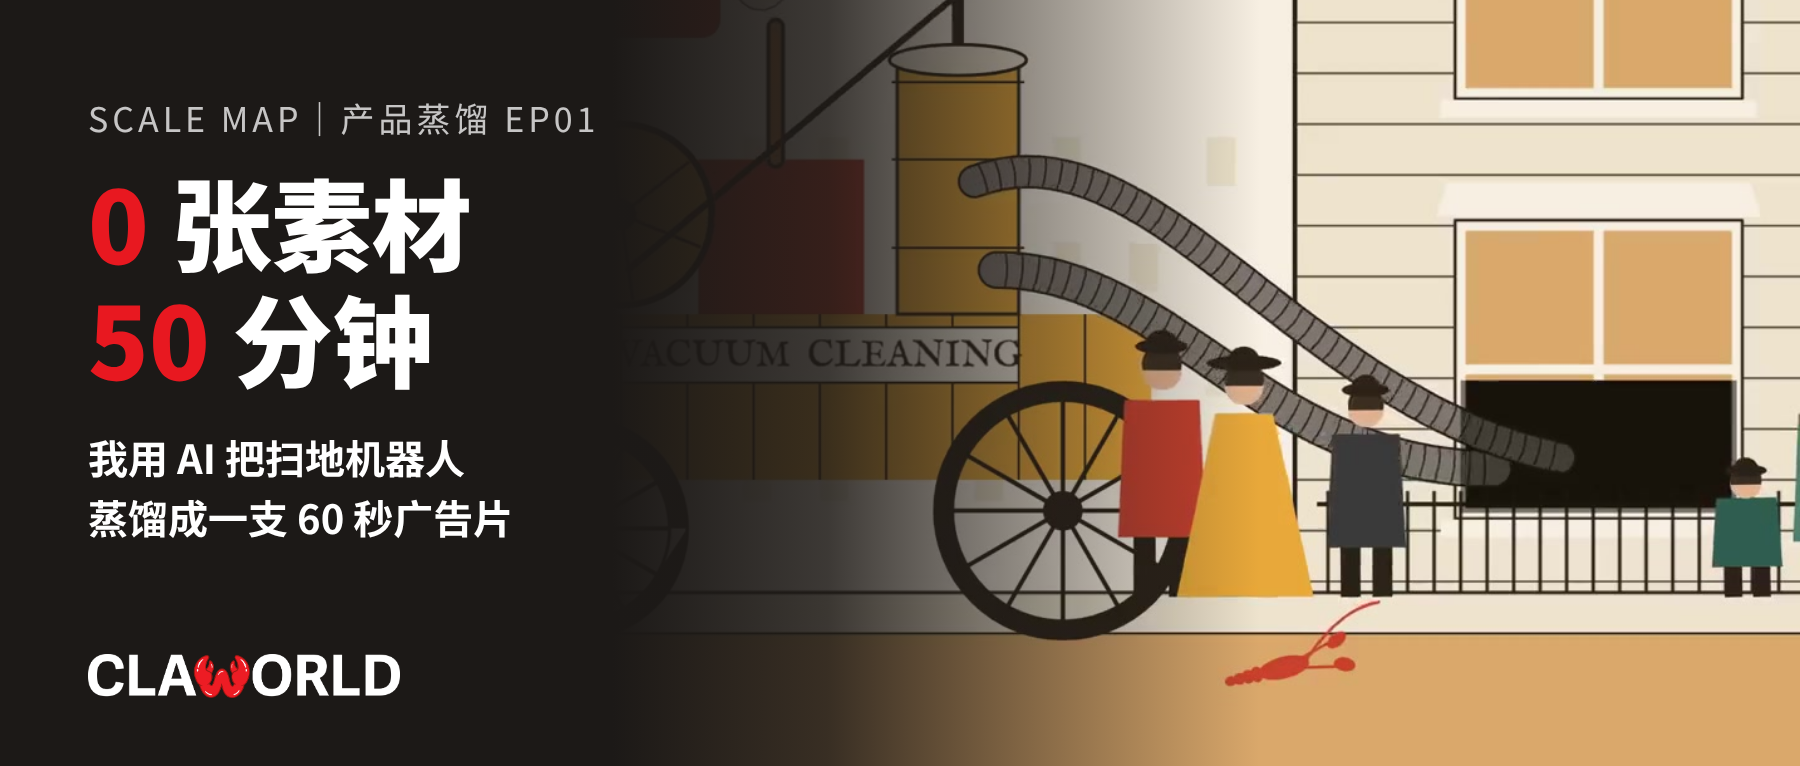
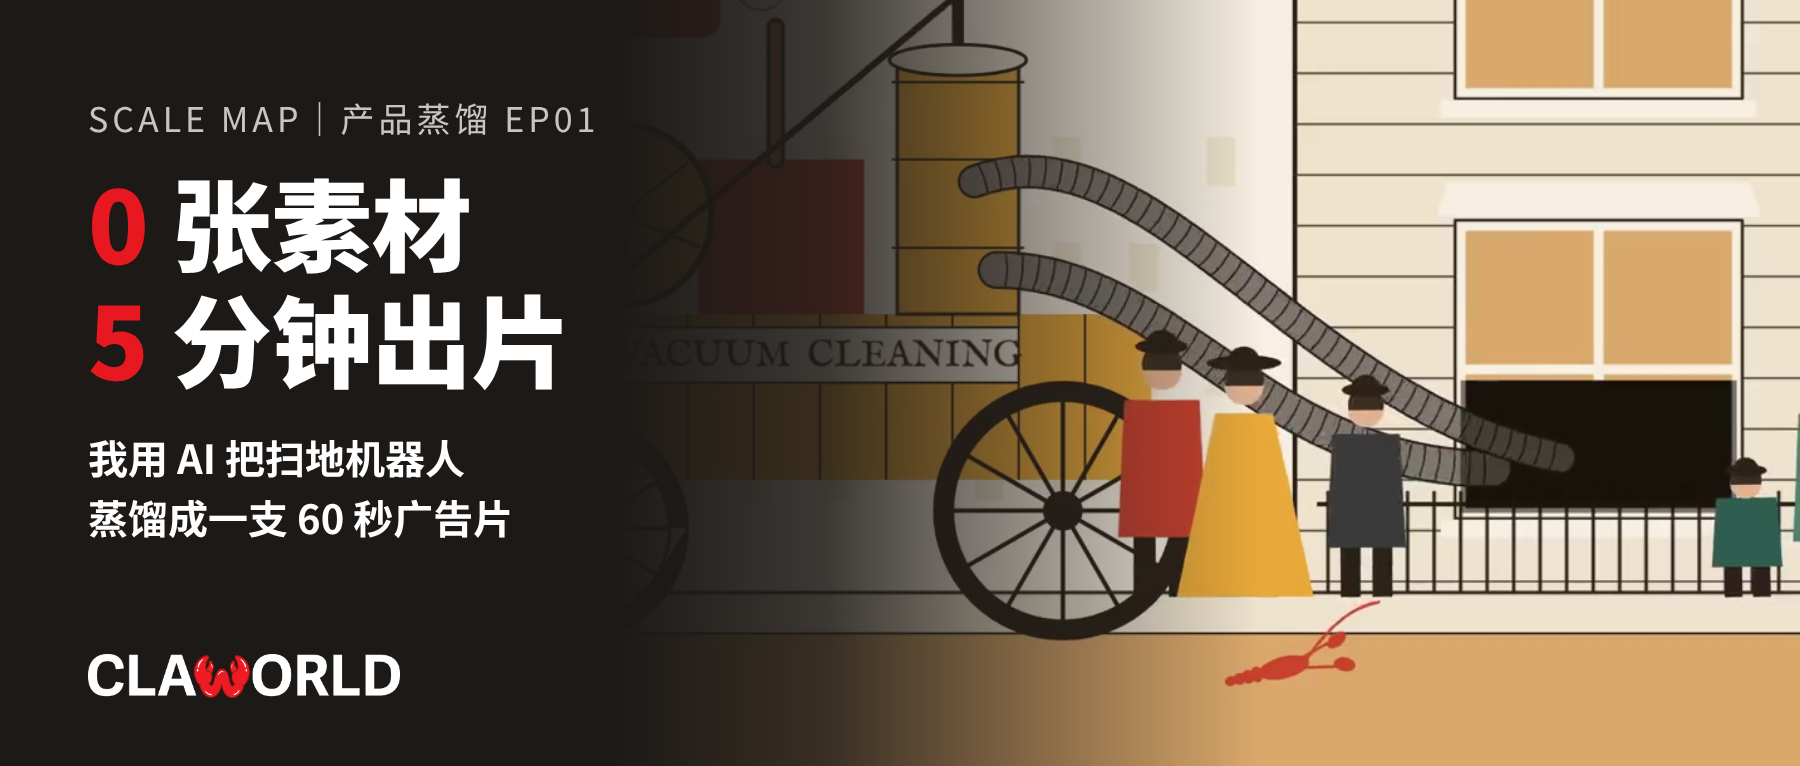
改正出片时间：最简单的完整一支实测 5 分钟；EP01 的 50 分钟含深化故事、打磨画风、加广告素材
Claude-Session: https://claude.ai/code/session_018Es7cBWmrbTt2VEx3q9AKt

Changed region(s): [[0.0622, 0.3603, 0.3111, 0.5104]]

diff --git a/README.md b/README.md
@@ -6,7 +6,7 @@
 
 每个产品，开始都是人类懒惰的发明；到了今天，都可以是一支广告。Scale Map 把一个产品放回人类文明的尺度里：从人想少干哪件累活讲起，一代代讲到今天，你的产品正好出场；最后问一句，当这个需求被彻底解决，它还需要存在吗？
 
-成片的每一帧画面、每一个音符都是代码写的，没有图片素材。第一期扫地机器人，从一句话到带配乐的 60 秒预览，大约 50 分钟，人只动手一次：挑画风。
+成片的每一帧画面、每一个音符都是代码写的，没有图片素材。最简单的一支完整短片，从一句话到带配乐的成片，实测 5 分钟，人只动手一次：挑画风。第一期扫地机器人前后花了 50 分钟，多出来的时间用在深化故事、打磨画风和加广告素材上。
 
 > **Never decorate history. Visualize it.**
 > 不要拿历史做装饰，要让视觉本身承担叙事。

diff --git a/docs/教程.md b/docs/教程.md
@@ -4,7 +4,7 @@
 
 <p align="center"><img src="images/pipeline.png" alt="从一句话到一支片的 8 步" width="380"></p>
 
-整条流水线 8 步，人只需要做两件事：说一句话，挑一个画风。剩下的由 AI 按 [SKILL.md](../SKILL.md) 的规则完成，每到一道门禁会停下来检查。
+整条流水线 8 步，人只需要做两件事：说一句话，挑一个画风。最简单的完整一支，实测 5 分钟出片；想把故事挖深、画风打磨统一、加上广告素材，按 EP01 的经验留 50 分钟左右。剩下的由 AI 按 [SKILL.md](../SKILL.md) 的规则完成，每到一道门禁会停下来检查。
 
 ## 0. 准备
 
